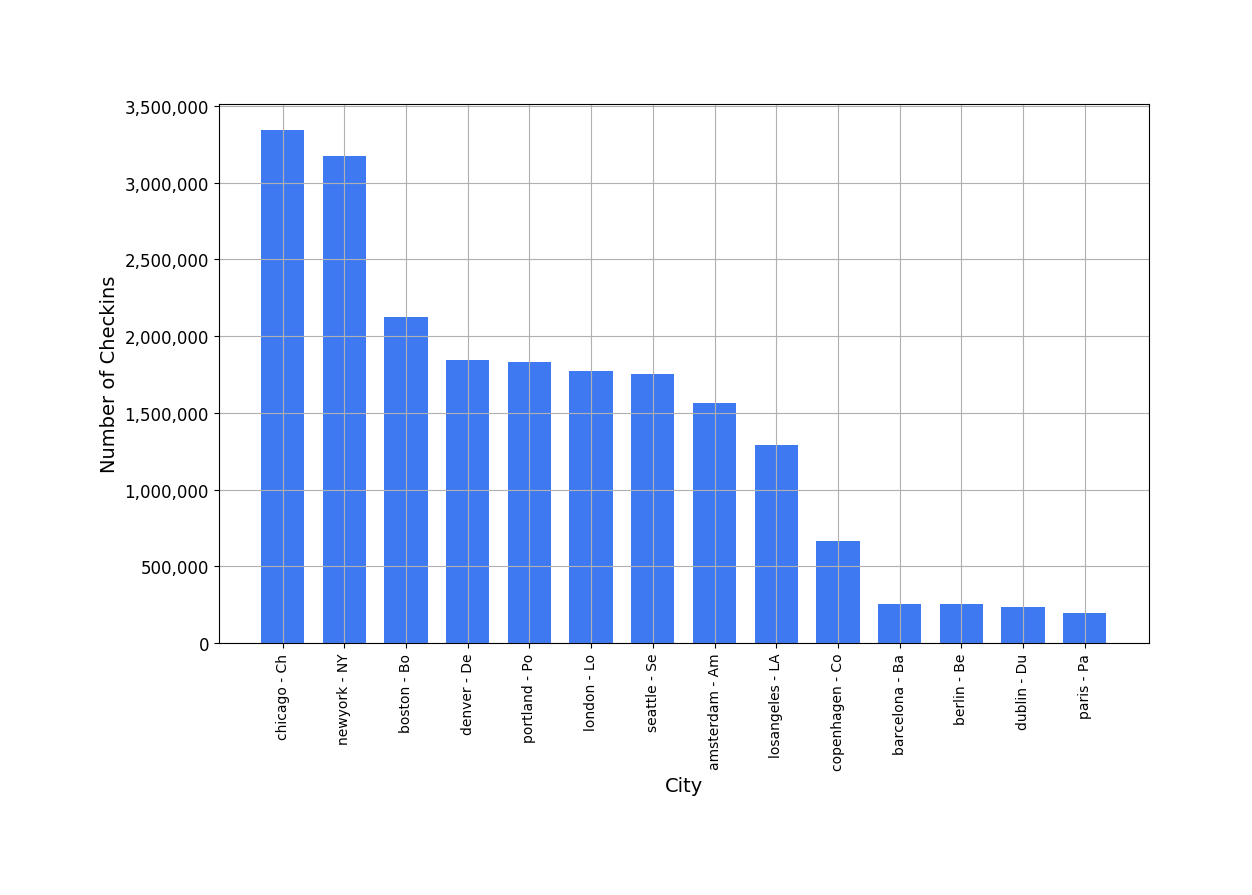
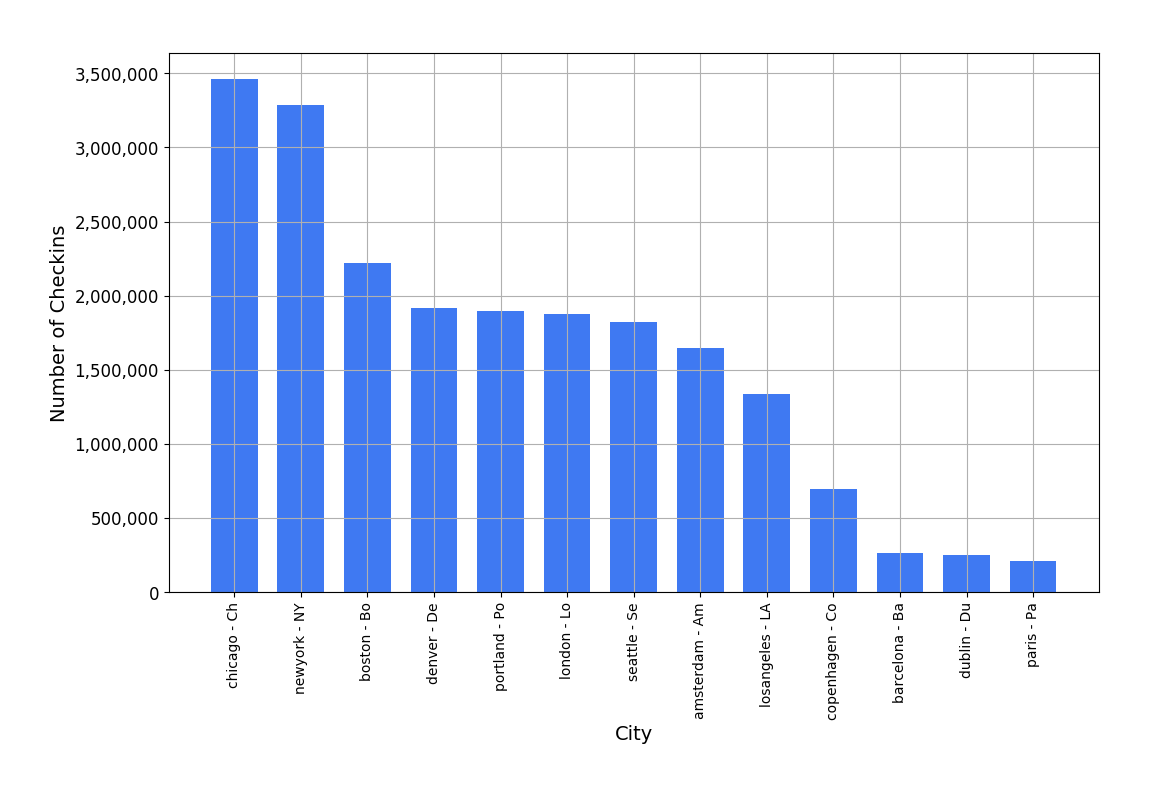
updated to latest data

diff --git a/index.html b/index.html
@@ -543,22 +543,23 @@ var get_drinks = function(token, lat, lng, callback) {
 
                 <section>
                     <h5>Monitoring from</h5>
-                    <h3>14th August 2015</h3>
+                    <h3>13th August 2015</h3>
                     <h5>to</h5>
-                    <h3>4th September 2017</h3>
-                    <h5>(752 days)</h5>
+                    <h3>2nd October 2017</h3>
+                    <h5>(781 days)</h5>
                 </section>
 
                 <section>
-                    <h1>20,299,979 checkins</h1>
-                    <h3>15,358,460 US checkins</h3>
-                    <h3>4,941,519 EU checkins</h3>
+                    <h1>20,870,677 checkins</h1>
+                    <h3>15,934,461 US checkins</h3>
+                    <h3>4,936,216 EU checkins</h3>
                 </section>
 
                 <section>
-                    <h1>881,302 users</h1>
-                    <h1>404,990 beers</h1>
-                    <h1>836,932 venues</h1>
+                    <h1>893,971 users</h1>
+                    <h1>414,305 beers</h1>
+                    <h1>848,852 venues</h1>
+                    <h1>30,931 breweries</h1>
                 </section>
 
                 <section data-background-image="img/checkins_per_city.png" data-background-size="contain">
